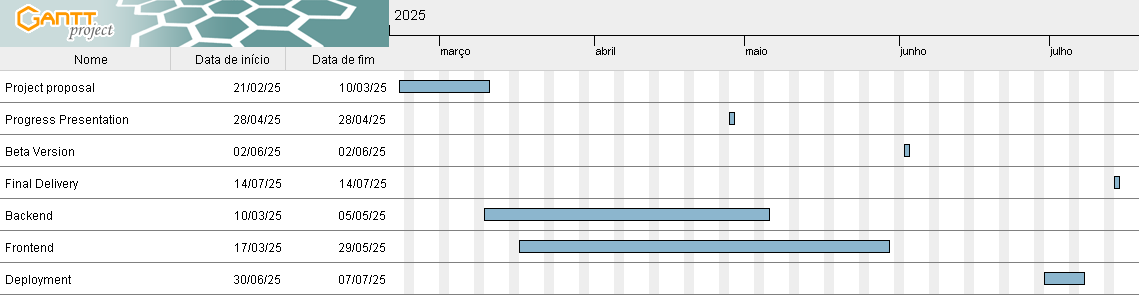
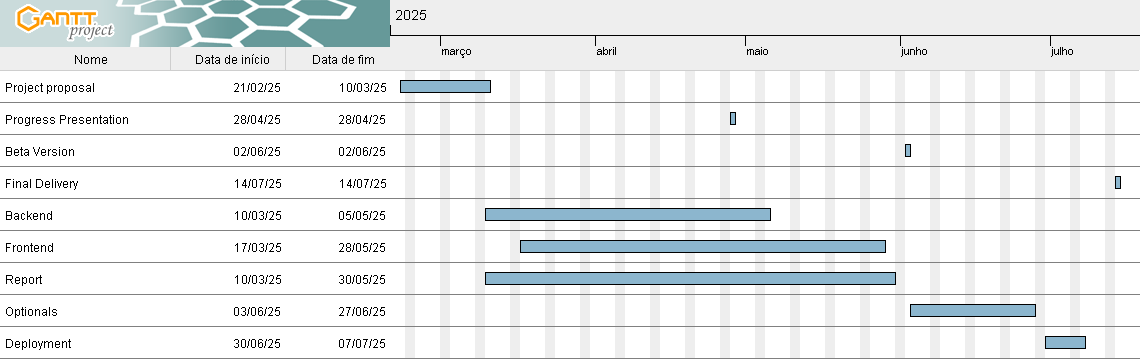
report update (risks, plan)

Changed region(s): [[0.0, 0.0, 1.0, 1.0], [0.338, 0.0305, 1.0, 0.1831]]

diff --git a/docs/PropostaLatex/Proposta.tex b/docs/PropostaLatex/Proposta.tex
@@ -79,7 +79,8 @@ In the development of this project different technologies will be employed, such
 
 \section{Risks}
 \begin{itemize}
-\item .
+\item Having no knowledge of surfing practice may lead to difficulties in creating a practical design for coaches, as we don’t know the best way to present information to them. Consequently, frequent communication with the practitioners will be essential.
+\item In frontend development, we may encounter more challenges because, although these technologies aren't new to us, we have less experience with TypeScript and React.
 \end{itemize}
 
 \section{Plan}
